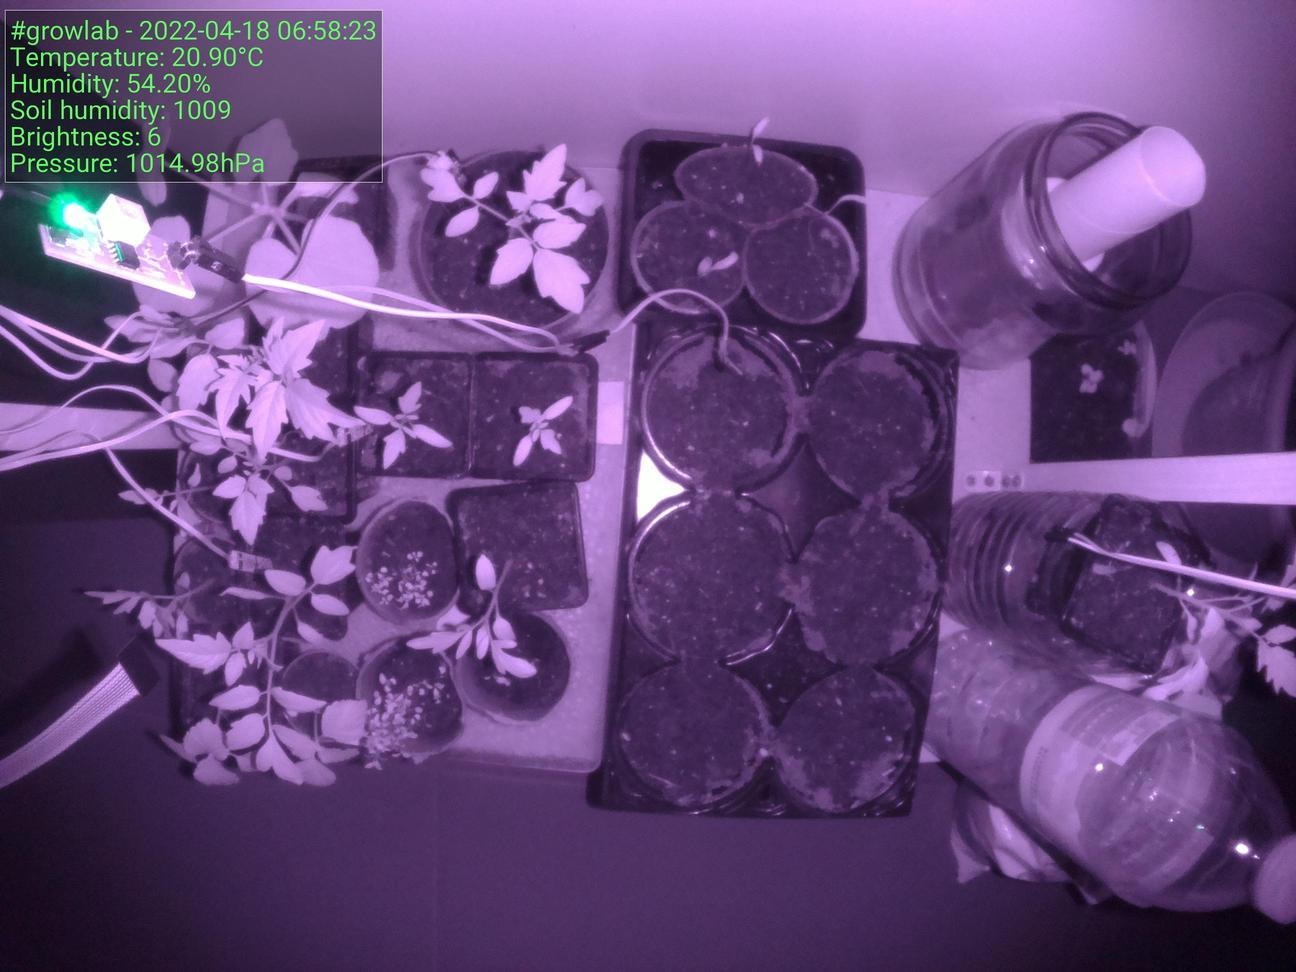
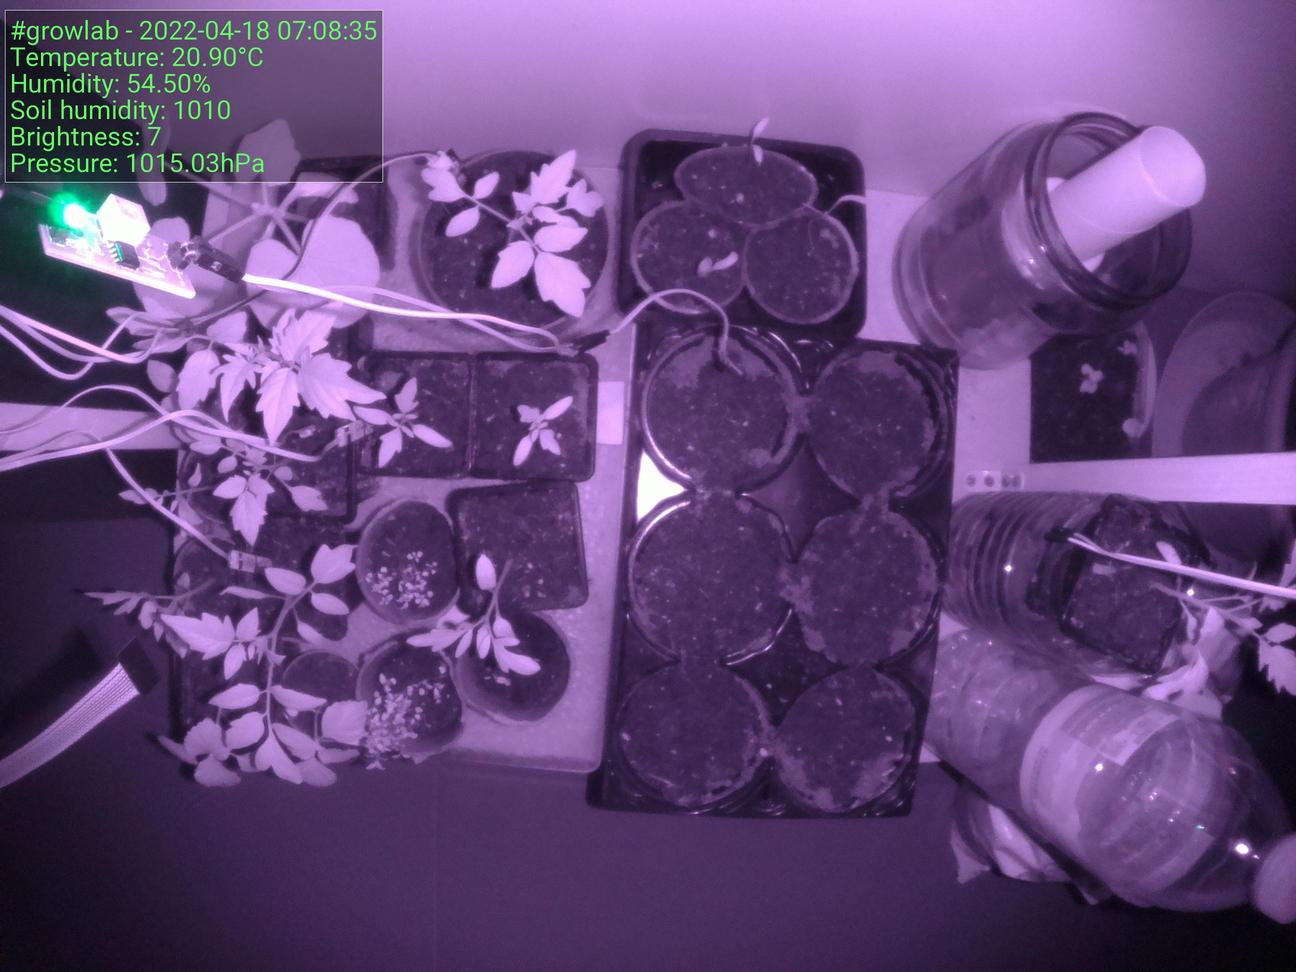
:bento: Update preview

diff --git a/index.html b/index.html
@@ -39,7 +39,7 @@
                     <tbody>
                         <tr>
                             <td>Time</td>
-                            <td>2022-04-18 06:58:23</td>
+                            <td>2022-04-18 07:08:35</td>
                         </tr>
                         <tr>
                             <td>Temperature</td>
@@ -47,7 +47,7 @@
                         </tr>
                         <tr>
                             <td>Humidity</td>
-                            <td>54.20%</td>
+                            <td>54.50%</td>
                         </tr>
                     </tbody>
                 </table>
@@ -55,7 +55,7 @@
 
                 <h5>Latest image</h5>
 		<div style="width: 85%;">
-	                <img class="figure-img img-fluid rounded" src="./preview.jpg?uid=1650257911.110493">
+	                <img class="figure-img img-fluid rounded" src="./preview.jpg?uid=1650258522.7449992">
 		</div>
             </div>
         </div>
